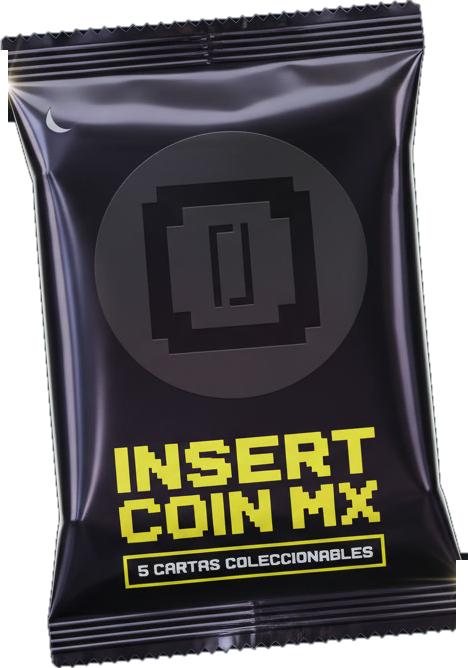
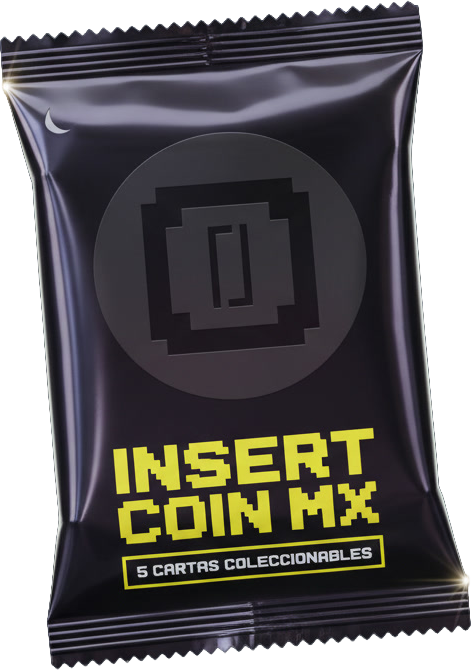
Sobre: PNG con transparencia de Jos, sin recorte manual
Claude-Session: https://claude.ai/code/session_01WEHJpKvCEPzmt6G3TWJ7VK

diff --git a/index.html b/index.html
@@ -470,12 +470,12 @@ button{font:inherit;color:inherit;background:none;border:0;cursor:pointer}
 .pkc::after{content:"";position:absolute;inset:0;background:radial-gradient(circle at 1px 1px,rgba(255,255,255,.9) .6px,transparent 1.2px) 0 0/5px 5px;mix-blend-mode:overlay;opacity:.6}
 
 /* ===== SOBRE v4: diseño final de Jos (sobre.png), brillo que sigue al dedo ===== */
-#pack .pk{--w:min(78vw,310px);width:var(--w);aspect-ratio:468/668;filter:drop-shadow(0 22px 26px rgba(0,0,0,.7)) drop-shadow(0 0 16px rgba(255,212,0,.12))}
+#pack .pk{--w:min(78vw,310px);width:var(--w);aspect-ratio:471/670;filter:drop-shadow(0 22px 26px rgba(0,0,0,.7)) drop-shadow(0 0 16px rgba(255,212,0,.12))}
 #pack .pkimg{position:absolute;inset:0;width:100%;height:100%;display:block;pointer-events:none;user-select:none}
 #pack .pkshine{position:absolute;inset:0;pointer-events:none;-webkit-mask:url(sobre.png) center/100% 100% no-repeat;mask:url(sobre.png) center/100% 100% no-repeat;mix-blend-mode:screen;opacity:.55;
  background:linear-gradient(115deg,transparent 30%,rgba(255,255,255,.55) 42%,rgba(255,236,150,.35) 50%,transparent 62%);background-size:300% 300%;background-position:var(--hx) var(--hy);transition:background-position .25s ease-out}
 #pack .pk.idle .pkshine{animation:holo 6s ease-in-out infinite alternate}
-#pack .pk-top{position:absolute;left:1%;top:5.2%;width:92%;height:9%;background:none;clip-path:none;transform:rotate(-4.8deg);transform-origin:0 0;z-index:3}
+#pack .pk-top{position:absolute;left:1%;top:6%;width:92%;height:9%;background:none;clip-path:none;transform:rotate(-4deg);transform-origin:0 0;z-index:3}
 #pack .pk-top .cutp{top:auto;bottom:0;left:0;height:4px;background:#fff;box-shadow:0 0 10px #fff,0 0 22px #ffd400}
 #pack .pk-top .hand{top:-6px;left:6%}
 #pack .env.cut .pk-top{animation:none}
